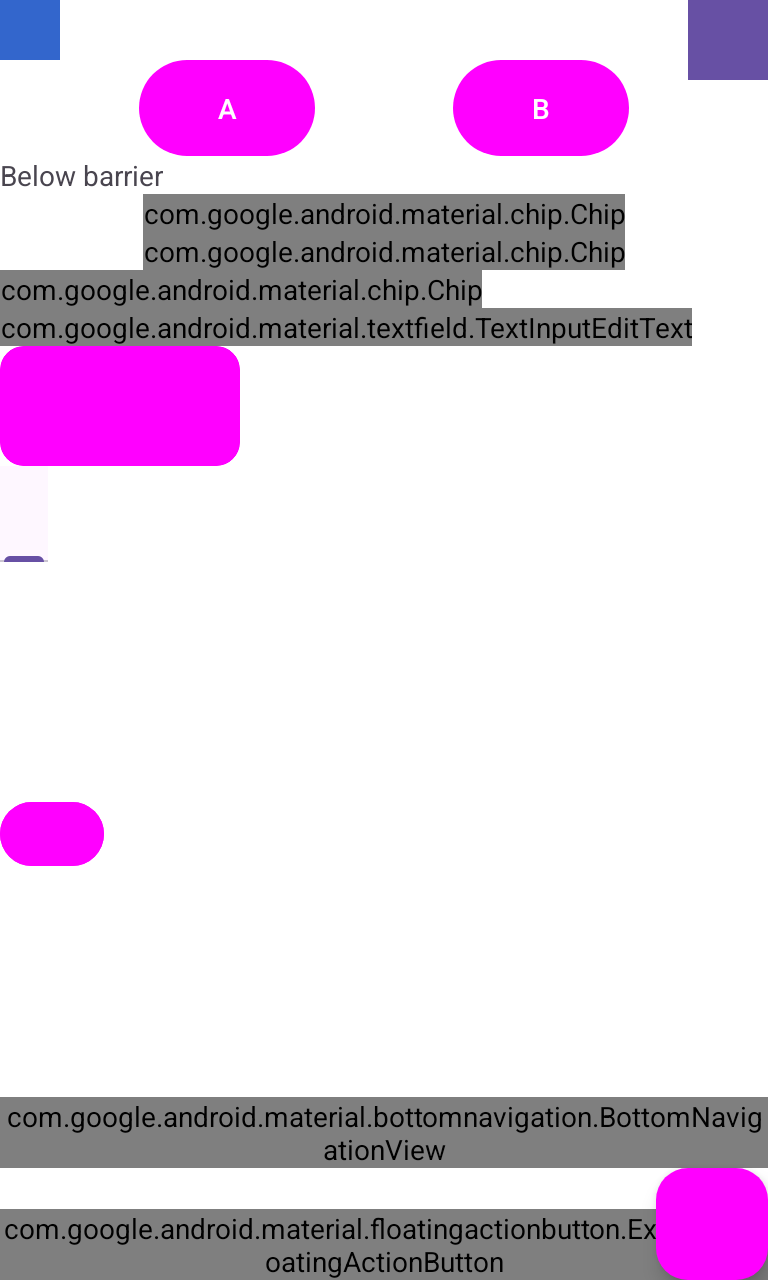
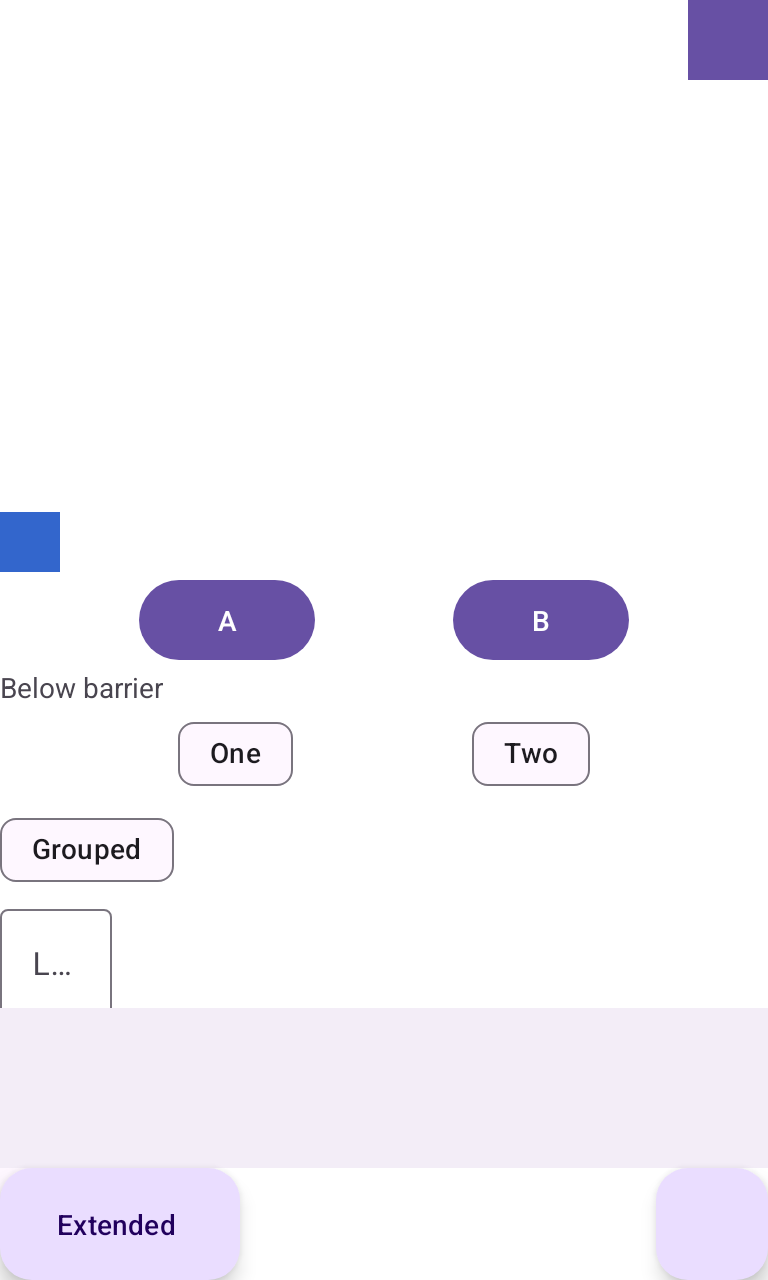
Resolve library styleable framework-attr ids so Material widgets render faithfully
RClassGenerator merged the bundled AAR symbols with an EMPTY platform table, so
mergeAndRenumberSymbols zeroed every android:-namespaced framework-attr slot in
every generated R.styleable array. At render time
obtainStyledAttributes(...).getResourceId(android:textAppearance, -1) read 0 and
returned -1, tripping Material's ThemeEnforcement: Chip, ExtendedFloatingActionButton
and BottomNavigationView degraded to MockView placeholders and widget tints fell
back to the magenta unresolved-color placeholder (Q5 / Q-TEXTAPP + Q-COLOR).

Reconstruct the android: ATTR table from the canonical framework ids aapt2 already
baked into the AAR R.txt styleable arrays and pass it to mergeAndRenumberSymbols, so
each framework-attr slot keeps its real id (layoutlib resolves the 0x0101xxxx
namespace natively) while own-library 0x7f ids stay consistent with the R classes
initResources loads. No pin bump; no Android SDK. Revisits Q3 (AD-016).

Add render.MaterialTextAppearanceTest (the three formerly-degraded widgets inflate as
real classes) and regenerate the affected Material corpus goldens (magenta buttons ->
Material3 primary; MockView labels -> real widgets); corpus stays 42/42 @ 0% diff.
Update docs/material-quirks.md, docs/limitations.md and host/ENGINE_SURFACE.md.

diff --git a/host/src/main/kotlin/engine/RClassGenerator.kt b/host/src/main/kotlin/engine/RClassGenerator.kt
@@ -2,6 +2,7 @@ package engine
 
 import com.android.ide.common.symbols.IdProvider
 import com.android.ide.common.symbols.RGeneration
+import com.android.ide.common.symbols.Symbol
 import com.android.ide.common.symbols.SymbolIo
 import com.android.ide.common.symbols.SymbolTable
 import com.android.ide.common.symbols.mergeAndRenumberSymbols
@@ -49,11 +50,20 @@ object RClassGenerator {
       SymbolIo.readFromAaptNoValues(f, packageName)
     }
 
-    // Empty main + platform tables: we own no app resources, and framework (android:) symbols are
-    // resolved natively by layoutlib at render time — see class doc / material-quirks (T42).
+    // Empty main table: we own no app resources.
     val emptyMain = SymbolTable.builder().tablePackage(MAIN_PACKAGE).build()
-    val emptyPlatform = SymbolTable.builder().tablePackage("android").build()
-    val merged = mergeAndRenumberSymbols(MAIN_PACKAGE, emptyMain, libraryTables, emptyPlatform, IdProvider.sequential())
+    // Platform (android:) attr table. Library styleables reference framework attrs (e.g.
+    // `android:textAppearance`) by name; `mergeAndRenumberSymbols` substitutes each such slot with
+    // the id from this table (and writes 0 when it is absent). An EMPTY table therefore zeroed every
+    // framework-attr slot in every generated styleable array — so at render time
+    // `obtainStyledAttributes(...).getResourceId(android:textAppearance, -1)` read 0 and returned -1,
+    // tripping Material's `ThemeEnforcement.checkTextAppearance` (Chip/ExtendedFAB/BottomNavigationView
+    // degraded; widget tints fell back to the magenta unresolved-color placeholder). We ship no
+    // Android SDK (AD-006), but the real framework ids are already baked into the AAR R.txt styleable
+    // arrays (aapt2 emitted them against the AAR's compileSdk); reconstruct the platform table from
+    // them so each android: slot keeps its canonical framework id, which layoutlib resolves natively.
+    val platform = platformAttrSymbols(rTxtFiles)
+    val merged = mergeAndRenumberSymbols(MAIN_PACKAGE, emptyMain, libraryTables, platform, IdProvider.sequential())
 
     val srcDir = File(workDir, "src").apply { deleteRecursively(); mkdirs() }
     RGeneration.generateRForLibraries(merged, libraryTables, srcDir, /* finalIds = */ false)
@@ -63,6 +73,40 @@ object RClassGenerator {
     packJar(classesDir, outJar)
 
     return libraryTables.map { it.tablePackage }
+  }
+
+  /** `android:`/`android_` prefix length ("android:" and "android_" are both 8 chars). */
+  private const val ANDROID_PREFIX_LEN = 8
+
+  /**
+   * Reconstruct the framework (`android:`) ATTR symbol table from the framework ids that aapt2 baked
+   * into the AAR R.txt styleable arrays. For every styleable child named `android:<attr>` /
+   * `android_<attr>`, the id at the child's array index is the canonical framework attr id; collect
+   * them (first non-zero wins — they are globally fixed) into an `android`-package [SymbolTable] that
+   * feeds [mergeAndRenumberSymbols] so framework-attr slots keep their real ids instead of 0.
+   */
+  private fun platformAttrSymbols(rTxtFiles: List<File>): SymbolTable {
+    val byName = LinkedHashMap<String, Int>()
+    for (f in rTxtFiles) {
+      val pkg = f.name.removeSuffix(".txt")
+      val table = SymbolIo.readFromAapt(f, pkg)
+      for (symbol in table.symbols.values()) {
+        if (symbol !is Symbol.StyleableSymbol) continue
+        val children = symbol.children
+        val values = symbol.values
+        for (i in children.indices) {
+          val child = children[i]
+          if (!child.startsWith("android:") && !child.startsWith("android_")) continue
+          val id = values.getOrNull(i) ?: continue
+          if (id == 0) continue
+          val name = child.substring(ANDROID_PREFIX_LEN)
+          byName.putIfAbsent(name, id)
+        }
+      }
+    }
+    val builder = SymbolTable.builder().tablePackage("android")
+    for ((name, id) in byName) builder.add(Symbol.attributeSymbol(name, id, false))
+    return builder.build()
   }
 
   private fun compile(srcDir: File, classesDir: File) {

diff --git a/host/src/engineTest/kotlin/render/MaterialTextAppearanceTest.kt b/host/src/engineTest/kotlin/render/MaterialTextAppearanceTest.kt
@@ -1,0 +1,85 @@
+package render
+
+import android.view.View
+import android.view.ViewGroup
+import engine.EngineAdapter
+import engine.EngineTestSupport
+import org.junit.jupiter.api.Assertions.assertTrue
+import org.junit.jupiter.api.Test
+import java.io.File
+import java.nio.file.Files
+
+/**
+ * AD-016 (revisits Q5 / P1-B AC1, LAY-05): the Material widgets that formerly degraded to a MockView
+ * placeholder under the pinned layoutlib 14.0.11 now inflate as their REAL classes.
+ *
+ * Root cause (fixed in [engine.RClassGenerator]): the generated library `R.styleable` arrays zeroed
+ * every framework (`android:`) attr slot, because `mergeAndRenumberSymbols` was given an EMPTY
+ * platform symbol table. At render time `obtainStyledAttributes(...).getResourceId(android:textAppearance,
+ * -1)` therefore read id 0 and returned -1, tripping Material's `ThemeEnforcement.checkTextAppearance`
+ * (Chip NPEs on a null TextAppearance; ExtendedFloatingActionButton and BottomNavigationView throw).
+ * Populating the platform table with the framework ids baked into the AAR R.txt styleable arrays
+ * keeps those slots at their canonical framework ids (layoutlib resolves them natively), so the
+ * enforcement check reads the real text-appearance id and the widgets construct normally.
+ *
+ * This is the discriminating counterpart to [MaterialGalleryTest], which documented these three as
+ * quirks and did NOT assert them as real. It renders the same §FR-2 gallery under
+ * Theme.Material3.DayNight (no project dependency declarations) and asserts the three formerly-degraded
+ * widgets inflate as their real classes with no MockView substitution.
+ */
+class MaterialTextAppearanceTest {
+
+  private fun descendants(v: View): Sequence<View> = sequence {
+    yield(v)
+    if (v is ViewGroup) for (i in 0 until v.childCount) yieldAll(descendants(v.getChildAt(i)))
+  }
+
+  @Test
+  fun `formerly-degraded Material widgets inflate as real classes under Theme_Material3_DayNight`() {
+    val src = File(EngineTestSupport.fixturesRoot(), "galleries/material")
+    require(src.isDirectory) { "material gallery fixtures missing at $src" }
+    val proj = Files.createTempDirectory("inflate-material-textappearance").toFile()
+    src.copyRecursively(proj, overwrite = true)
+    val res = File(proj, "res")
+
+    val adapter = EngineAdapter(
+      runtimeRoot = EngineTestSupport.runtimeRoot(),
+      resourcesRoot = EngineTestSupport.resourcesRoot(),
+      libraryResDirs = EngineTestSupport.libResDirs(),
+    )
+    adapter.initBridgeOnce(
+      EngineAdapter.previewEnvironment(
+        appTestDir = proj,
+        roots = listOf(res),
+        resourcePackageNames = EngineTestSupport.rPackages(),
+      ),
+    )
+    val session = adapter.session(listOf(res), "com.inflate.preview")
+    val layoutId = session.resourceId("material_gallery", "layout")
+
+    // Render once to apply Theme.Material3.DayNight + install the theme-aware factory, then re-inflate
+    // under the active theme so every widget's constructor (incl. ThemeEnforcement) actually runs.
+    session.render(layoutId, theme = "Theme.Material3.DayNight")
+    val root = adapter.inflate(layoutId)
+    val classes = descendants(root).map { it.javaClass.name }.toSet()
+
+    // The three §FR-2 widgets whose TextAppearance ThemeEnforcement formerly threw/NPEd and degraded.
+    val formerlyDegraded = listOf(
+      "com.google.android.material.chip.Chip",
+      "com.google.android.material.floatingactionbutton.ExtendedFloatingActionButton",
+      "com.google.android.material.bottomnavigation.BottomNavigationView",
+    )
+    for (fqcn in formerlyDegraded) {
+      assertTrue(
+        fqcn in classes,
+        "gallery must now inflate a real $fqcn (TextAppearance ThemeEnforcement must pass); got classes=$classes",
+      )
+    }
+
+    // None of the rendered views degraded to a MockView placeholder.
+    assertTrue(
+      classes.none { it.contains("MockView") },
+      "no §FR-2 widget should degrade to a MockView placeholder; got classes=$classes",
+    )
+  }
+}

diff --git a/docs/material-quirks.md b/docs/material-quirks.md
@@ -21,14 +21,17 @@ provenance per the T42 constraint.
 
 ## What the reference render shows
 
+> **Update (AD-016, 2026-07-20):** Q-TEXTAPP and Q-COLOR are now **FIXED** — see the fix note under
+> each quirk. The four formerly-degraded widgets inflate as their real classes and themed
+> backgrounds/tints paint their real Material colours (no magenta). Only **Q-GUIDE** remains open.
+
 - `?attr/colorPrimary` (the 40 dp probe, top-right) resolves to the Material3 primary (indigo/purple),
   confirming theme-attribute resolution through the inheritance chain (AC2).
-- MaterialButton "A"/"B" form a spread chain; "Below barrier" sits under the bottom barrier (AC3).
-- Several widgets show a **magenta (#FF00FF)** fill — that is our unresolved-resource placeholder
-  (T27), not a Material colour: the widget class + geometry are correct but its themed
-  background/tint colour did not resolve (see quirk Q-COLOR below).
-- Four widgets render as **grey labelled boxes** — the MockView placeholder (AD-013) after an
-  inflation failure (see quirk Q-TEXTAPP below).
+- MaterialButton "A"/"B" form a spread chain; "Below barrier" sits under the bottom barrier (AC3);
+  both buttons paint the Material3 primary container colour (Q-COLOR fixed — formerly magenta).
+- Chip / ChipGroup ("One"/"Two"/"Grouped"), TextInputLayout/TextInputEditText, the Extended FAB
+  ("Extended") and BottomNavigationView all inflate as their **real classes** (Q-TEXTAPP fixed —
+  formerly grey MockView placeholders).
 
 ## Per-component parity verdict (§FR-2)
 
@@ -39,18 +42,18 @@ provenance per the T42 constraint.
 | Barrier | ✅ | bottom barrier positions dependent view correctly | **OK** |
 | Group | ✅ (class) | inflates; visibility propagation not asserted | **OK (partial)** |
 | Flow | ✅ (class) | inflates; wrap positioning not asserted | **OK (partial)** |
-| MaterialButton | ✅ | shape + text correct; background tint → magenta | **Quirk Q-COLOR** |
+| MaterialButton | ✅ | shape + text correct; background paints Material primary | **OK** (Q-COLOR fixed) |
 | MaterialTextView | ✅ | text correct | **OK** |
-| Chip / ChipGroup | ChipGroup ✅ / Chip ❌ | Chip → MockView placeholder | **Quirk Q-TEXTAPP** |
-| TextInputLayout / TextInputEditText | Layout ✅ / EditText ❌ | EditText → MockView placeholder | **Quirk Q-TEXTAPP** |
-| MaterialCardView | ✅ | card shape; background → magenta | **Quirk Q-COLOR** |
+| Chip / ChipGroup | ✅ / ✅ | Chip inflates as real class | **OK** (Q-TEXTAPP fixed) |
+| TextInputLayout / TextInputEditText | ✅ / ✅ | EditText inflates as real class | **OK** (Q-TEXTAPP fixed) |
+| MaterialCardView | ✅ | card shape; background paints themed colour | **OK** (Q-COLOR fixed) |
 | TabLayout (+ TabItem) | ✅ (TabItem consumed) | tab strip inflates | **OK** |
 | MaterialToolbar | ✅ | inflates (empty toolbar) | **OK** |
-| Slider | ✅ | inflates; track/thumb → magenta | **Quirk Q-COLOR** |
+| Slider | ✅ | inflates; track/thumb paint themed colour | **OK** (Q-COLOR fixed) |
 | MaterialSwitch | ✅ | inflates | **OK** |
-| FloatingActionButton | ✅ | shape correct; background → magenta | **Quirk Q-COLOR** |
-| ExtendedFloatingActionButton | ❌ | MockView placeholder | **Quirk Q-TEXTAPP** |
-| BottomNavigationView | ❌ | MockView placeholder | **Quirk Q-TEXTAPP** |
+| FloatingActionButton | ✅ | shape correct; background paints themed colour | **OK** (Q-COLOR fixed) |
+| ExtendedFloatingActionButton | ✅ | inflates as real class | **OK** (Q-TEXTAPP fixed) |
+| BottomNavigationView | ✅ | inflates as real class | **OK** (Q-TEXTAPP fixed) |
 | RecyclerView / ViewPager2 | ✅ (per §FR-2, empty at bounds) | not in this gallery | n/a here |
 
 ## Quirks
@@ -63,30 +66,45 @@ Update your app theme to inherit from Theme.MaterialComponents (or a descendant)
 `NullPointerException: TextAppearance.getTextSize()`, so the inflater substitutes a labelled MockView
 placeholder (AD-013) — the render still completes with a `substitutedClass` warning.
 
-**Cause:** these components run Material's `ThemeEnforcement`/`MaterialResources.getTextAppearance`,
-which reads a text-appearance *theme attribute* (e.g. `?attr/textAppearanceBodyLarge`). Under the pinned
-layoutlib 14.0.11 + our SDK-free, dynamically-numbered R / generated-R resource scheme (Q3), that
-text-appearance theme attribute resolves to null even though `Theme.Material3.DayNight` is applied and
-other theme attributes (e.g. `?attr/colorPrimary`) resolve. Widgets that do not enforce a text
-appearance (MaterialButton, MaterialTextView, Slider, MaterialSwitch, FAB, MaterialCardView, TabLayout,
-MaterialToolbar) are unaffected.
+**Cause (precise, corrected under AD-016):** these components call
+`ThemeEnforcement.obtainStyledAttributes(...)` and read a text-appearance resource id via
+`a.getResourceId(R.styleable.<Widget>_android_textAppearance, -1)` — the **framework** attr
+`android:textAppearance` inside the widget's styleable array. The bug was NOT that a theme attribute
+resolved to null; it was that the **generated library `R.styleable` arrays zeroed every `android:`
+framework-attr slot**. `RClassGenerator` ran AGP's `mergeAndRenumberSymbols` with an **empty platform
+symbol table**, so every `android:`-namespaced styleable child was written as id `0` (AGP substitutes
+the platform id for those slots, or `0` when the platform table lacks them). At render time
+`obtainStyledAttributes` therefore read id `0` for `android:textAppearance` and `getResourceId(...)`
+returned `-1`, tripping `ThemeEnforcement.checkTextAppearance` (ExtendedFAB/BottomNavigationView throw;
+Chip NPEs on the resulting null TextAppearance). This was broader than "text appearance" — every
+framework attr in every library styleable was affected (see Q-COLOR, same root cause).
 
-**Studio behaviour:** renders these components fully. **Divergence: high** for the four affected widgets.
-**Follow-up:** track as a corpus tolerance exclusion (below); a real fix likely requires closing the
-text-appearance theme-attribute resolution gap and is out of scope for the pinned-engine v1.
+**Fix (AD-016):** `RClassGenerator` now reconstructs the platform (`android:`) ATTR symbol table from
+the canonical framework ids that aapt2 already baked into the AAR `R.txt` styleable arrays, and passes
+it to `mergeAndRenumberSymbols`. Framework-attr slots now keep their real ids (e.g. `Chip[4]` =
+`0x01010034` for `android:textAppearance`), which layoutlib resolves natively; own-library `0x7f` ids
+are unchanged, so id-consistency with the loaded `R` classes is preserved. No pin bump; no SDK.
+
+**Status: FIXED.** Verified by `render.MaterialTextAppearanceTest` (the three formerly-degraded widgets
+inflate as real classes) and the regenerated `material/gallery` corpus golden.
 
 ### Q-COLOR — themed background/tint renders as the magenta placeholder (MaterialButton, MaterialCardView, Slider, FAB)
 
 **Symptom:** the widget's class and geometry are correct, but its background/tint paints as the
 `#FF00FF` unresolved-resource placeholder (T27) instead of the themed container colour.
 
-**Cause:** the widget's background/tint resolves through a theme colour reference that does not resolve
-under the current resource scheme, so degradation substitutes the magenta placeholder. Direct
-`?attr/colorPrimary` (a simple colour theme attribute) DOES resolve — the gap is specific to the
-themed background/tint (ColorStateList / drawable) chain of these widgets.
+**Cause (corrected under AD-016):** SAME root cause as Q-TEXTAPP. The widget reads its
+background/tint (a themed `ColorStateList`) through a framework attr slot in a library styleable (e.g.
+`android:backgroundTint`, `android:tint`). Those slots were zeroed by the empty-platform-table bug, so
+the tint reference resolved to nothing and layoutlib painted the `#FF00FF` unresolved-colour fallback.
+Direct `?attr/colorPrimary` (a simple colour theme attribute, not read through a library styleable's
+framework slot) always resolved — which is why the probe was correct while widget fills were magenta.
 
-**Studio behaviour:** paints the themed container colour. **Divergence: medium** (shape/size/text are
-faithful; fill colour is not).
+**Fix (AD-016):** the same `RClassGenerator` platform-table fix restores the framework-attr ids, so the
+themed background/tint now resolves and paints its real Material colour.
+
+**Status: FIXED.** Verified by the regenerated `gradle/grid_layout`, `gradle/linear_horizontal` and
+`material/gallery` corpus goldens (formerly-magenta MaterialButton fills now paint Material3 primary).
 
 ### Q-GUIDE — ConstraintLayout Guideline does not reposition constrained views
 
@@ -109,24 +127,24 @@ version): unknown Material attributes are surfaced, not silently dropped.
 
 ## Corpus tolerance implications (NFR-07)
 
-- **Exclude from the golden corpus (until fixed):** Chip, TextInputEditText,
-  ExtendedFloatingActionButton, BottomNavigationView (Q-TEXTAPP — they render as placeholders, so a
-  Studio pixel-diff would be meaningless). Track as known-limitation fixtures.
-- **Loosen colour tolerance / mask fill regions:** MaterialButton, MaterialCardView, Slider, FAB
-  (Q-COLOR — geometry matches, fill does not; compare shape/bounds, not the fill colour, or mask it).
-- **Guideline fixtures:** assert chains/barriers, not guideline-relative positions (Q-GUIDE).
+- **Q-TEXTAPP / Q-COLOR fixed (AD-016):** Chip, TextInputEditText, ExtendedFloatingActionButton,
+  BottomNavigationView now render as real classes, and MaterialButton/MaterialCardView/Slider/FAB paint
+  their themed colours — all corpus-eligible at the standard tolerance. The `material/gallery` golden
+  and the affected `grid_layout`/`linear_horizontal`/`material_buttons` goldens were regenerated to the
+  corrected rendering; corpus is 42/42 @ 0% diff.
+- **Guideline fixtures:** assert chains/barriers, not guideline-relative positions (Q-GUIDE — still open).
 - Widgets marked **OK** above are corpus-eligible at the standard AA pixel tolerance once a real Studio
   baseline is captured on a workstation.
 
 ## Q5 verdict
 
-**Q5 (Material rendering parity catalog) is RESOLVED, with caveats:**
+**Q5 (Material rendering parity catalog) is RESOLVED, with one remaining caveat:**
 - The §FR-2 surface inflates against the bundled, pinned artifacts with no project configuration; the
   core widgets render faithfully in geometry/text; `?attr/` theme resolution and ConstraintLayout
   chains/barriers work (P1-B AC1/AC2/AC3 core mechanism proven).
-- **Caveats / documented divergences carried forward:** Q-TEXTAPP (4 widgets → placeholder),
-  Q-COLOR (themed background/tint → magenta on 4 widgets), Q-GUIDE (guideline positioning). These are
-  pinned-engine (layoutlib 14.0.11 + SDK-free dynamic-id) limitations, tracked as corpus tolerances
-  above, and are candidates for the post-v1 Paparazzi 2.x / layoutlib upgrade.
+- **Q-TEXTAPP and Q-COLOR are FIXED (AD-016)** — all §FR-2 widgets inflate as their real classes and
+  paint their themed colours, no pin bump. The remaining divergence is **Q-GUIDE** (guideline
+  positioning), a distinct ConstraintLayout id-application issue tracked separately and a candidate for
+  the post-v1 Paparazzi 2.x / layoutlib upgrade.
 - **Provenance caveat:** verdicts are against documented Studio behaviour, not a captured Studio
   pixel baseline; capturing that baseline on a workstation is the one open follow-up for full Q5 sign-off.

diff --git a/docs/limitations.md b/docs/limitations.md
@@ -9,26 +9,26 @@ an empirically-verified gap found while building and testing the golden-image co
 ## Material / androidx fidelity gaps (Q5)
 
 Under the pinned engine (layoutlib 14.0.11 + the SDK-free dynamic-id resource scheme — see
-[Engine and version pinning](#engine-and-version-pinning) below), a handful of real, verified
-divergences exist. Full per-widget detail, including the reference render and reasoning, is in
-[docs/material-quirks.md](material-quirks.md); the highlights:
+[Engine and version pinning](#engine-and-version-pinning) below). Full per-widget detail, including
+the reference render and reasoning, is in [docs/material-quirks.md](material-quirks.md).
 
-- **`Chip`, `TextInputEditText`, `ExtendedFloatingActionButton`, and `BottomNavigationView` degrade
-  to grey labelled placeholder boxes** (a `TextAppearance`/`ThemeEnforcement` inflation failure under
-  the bundled Material version) rather than rendering as themselves. This is a genuine gap against
-  the §FR-2 surface table, which names these components as supported — they inflate as MockView
-  placeholders instead, not their real class.
-- **Some widget backgrounds/tints render as a magenta (`#FF00FF`) placeholder fill** instead of the
-  correct themed color — the widget's class and geometry are correct, but a themed color/tint
-  attribute did not resolve. Geometry-only inspection (is this the right shape, size, position?)
-  is reliable; exact-color inspection of the affected widgets is not.
+**Fixed in AD-016 (no pin bump):** `Chip`, `TextInputEditText`, `ExtendedFloatingActionButton` and
+`BottomNavigationView` now inflate as their **real classes** (formerly grey placeholder boxes), and
+widget backgrounds/tints now paint their **real themed colours** (formerly the magenta `#FF00FF`
+placeholder). Root cause: the generated library `R.styleable` arrays zeroed every `android:`
+framework-attr slot because `RClassGenerator` merged symbols with an empty platform table, so
+`obtainStyledAttributes(...).getResourceId(android:textAppearance, -1)` returned `-1` and Material's
+`ThemeEnforcement` failed. The generator now reconstructs the framework-attr ids from the AAR `R.txt`
+styleable arrays, so those slots keep their canonical framework ids (layoutlib resolves them natively).
+
+**Remaining divergence:**
+
 - **`ConstraintLayout`'s `Guideline` does not reposition the views constrained to it** (chains and
   barriers DO work correctly). A layout relying on a guideline for positioning will show the
-  guideline's dependent view in the wrong place.
+  guideline's dependent view in the wrong place. This is a distinct id-application issue, not related
+  to the AD-016 fix above.
 
-These are documented divergences the corpus deliberately does **not** assert as "working" — the
-corpus's Material fixtures assert what the pinned engine faithfully produces today, not what Studio
-would show.
+The corpus's Material fixtures assert what the pinned engine faithfully produces today.
 
 ## Custom / unknown view classes render as placeholders (AD-007)
 

diff --git a/host/ENGINE_SURFACE.md b/host/ENGINE_SURFACE.md
@@ -111,6 +111,26 @@ Verified (T38b): `engine.LibraryResourcesTest` inflates a real
 `com.google.android.material.button.MaterialButton` inside `androidx.constraintlayout.widget.ConstraintLayout`
 (no `NoClassDefFoundError`, no MockView) under `Theme.Material3.DayNight`.
 
+### AD-016 — framework-attr ids in generated library `R.styleable` arrays
+
+`RClassGenerator` runs AGP's `com.android.ide.common.symbols.mergeAndRenumberSymbols` (from
+`sdk-common`) to build the bundled AARs' `R` classes. That merge substitutes each `android:`-namespaced
+styleable child with the id from a **platform symbol table**, writing `0` when the table lacks it.
+Passing an *empty* platform table therefore zeroed every framework-attr slot in every generated
+styleable array (e.g. `Chip[Chip_android_textAppearance]` = `0` instead of `0x01010034`). At render
+time `obtainStyledAttributes(...).getResourceId(android:textAppearance, -1)` then returned `-1`, so
+Material's `ThemeEnforcement.checkTextAppearance` threw / NPEd (Chip, ExtendedFloatingActionButton,
+BottomNavigationView degraded to MockView; widget tints fell back to the magenta unresolved-colour
+placeholder — the Q5/Q-TEXTAPP + Q-COLOR quirks).
+
+**Fix (no pin bump, no SDK):** `RClassGenerator.platformAttrSymbols(...)` reconstructs the `android:`
+ATTR table from the canonical framework ids aapt2 already baked into the AAR `R.txt` styleable arrays,
+and passes it to `mergeAndRenumberSymbols`. Framework-attr slots keep their real ids (layoutlib
+resolves the `0x0101xxxx` namespace natively); own-library `0x7f` ids are unchanged, so the ids stay
+consistent with the `R` classes `PaparazziCallback.initResources` loads (`resolveResourceId` maps the
+`0x7f` ids; layoutlib maps the `0x01` ones). Verified by `render.MaterialTextAppearanceTest` and the
+regenerated Material corpus goldens.
+
 **New internal/library symbols touched.** `org.objectweb.asm.{ClassReader,ClassWriter}` and
 `org.objectweb.asm.commons.{ClassRemapper,Remapper}` (ASM 9.7). No new Paparazzi/layoutlib *internal*
 symbols beyond those already inventoried above; the delegation operates purely on layoutlib's published
